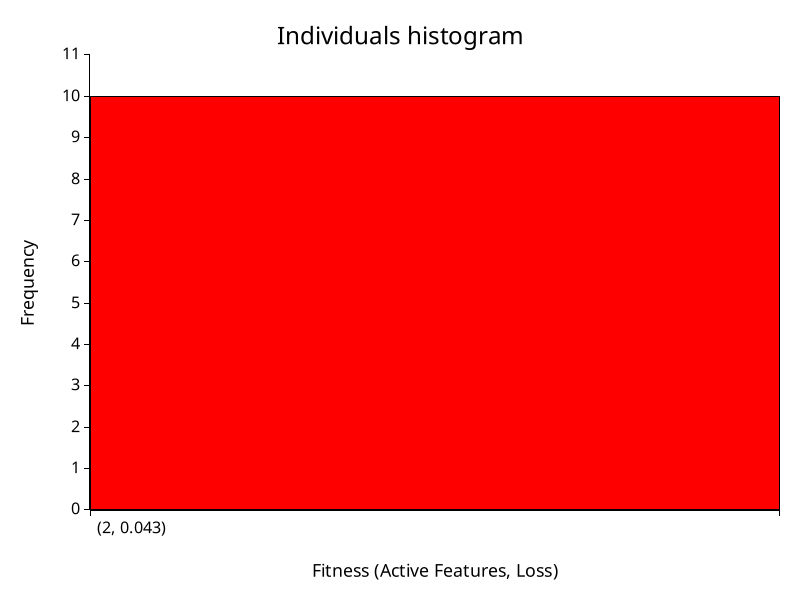
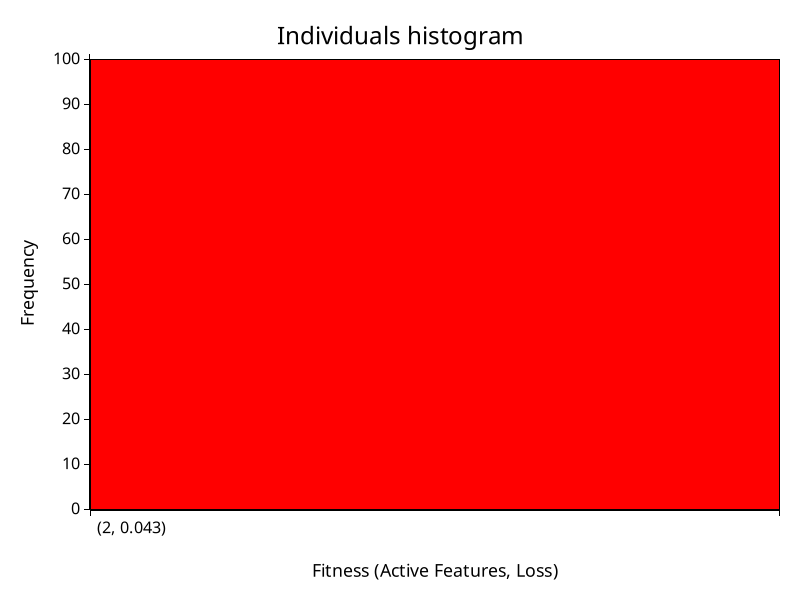
Refactor multi-run validation and enhance output data; update feature selection logic and visualization

diff --git a/src/algorithms/soo/soo.rs b/src/algorithms/soo/soo.rs
@@ -8,7 +8,7 @@ const POPULATION_SIZE: usize = 100;
 const MAX_GENERATIONS: usize = 1000;
 const TOURNAMENT_SIZE: usize = 3;
 const W : f64 = 0.5;
-const MAX_TIME : f64 = 5.0;
+const MAX_TIME : f64 = 1.0;
 
 pub fn generate_population(n: usize) -> Vec<Vec<bool>>{
 
@@ -247,16 +247,12 @@ pub fn genetic_algorithm_time(
                 best_solution.combination = solution.clone();
                 best_solution.loss = get_loss(&combinations, solution);
                 best_cost = cost;
-                best_generation = generation;
+                best_generation = generation+1;
             }
         }
         costs.push((best_cost, best_solution.loss));
-
-        if generation % 1000 == 0 {
-            println!("Generation: {}, Best Cost: {}", generation, best_cost);
-        }
-        generation += 1;
     }
+    println!("Final Best Cost: {}", best_cost);
 
     // Final push (optional, depending on your logging preference)
     costs.push((best_cost, best_solution.loss));
@@ -459,7 +455,7 @@ pub(crate) fn multi_run_validation(path: &str){
     let mut feauter_counts = Vec::new();
     let mut losses = Vec::new();
     let mut best_generations = Vec::new();
-    for _ in 0..10{
+    for _ in 0..100{
         let (solution, cost, _, best_generation) = genetic_algorithm_time(&combinations, MAX_TIME);
         best_solutions.push(solution.clone());
         costs.push(cost);
@@ -478,6 +474,7 @@ pub(crate) fn multi_run_validation(path: &str){
     let mut mean_feature_count = 0.0;
     let mut mean_loss = 0.0;
     let mut mean_evaluation_number = 0.0;
+    let mut mean_best_solution = best_solutions[0].clone();
 
     for cost in &costs {
         mean_best_cost += *cost;
@@ -495,6 +492,14 @@ pub(crate) fn multi_run_validation(path: &str){
         mean_evaluation_number += *evaluation_number as f64;
     }
     mean_evaluation_number /= best_generations.len() as f64;
+    let mut max_count = 0;
+    for solution in &best_solutions {
+        let count = best_solutions.iter().filter(|&s| s == solution).count();
+        if count > max_count {
+            max_count = count;
+            mean_best_solution = solution.clone();
+        }
+    }
 
     mean_best_cost /= best_solutions.len() as f64;
     println!("Mean Best Cost: {}", mean_best_cost);
@@ -504,15 +509,15 @@ pub(crate) fn multi_run_validation(path: &str){
     let output_path = format!("src/output/soo/{}_histogram.png", path);
     plot_histogram(&best_solutions, &output_path).unwrap();
     let csv_path = format!("src/output/soo/{}.csv", path);
-    save_data_to_csv(&csv_path, costs.len(), mean_feature_count, mean_loss, mean_best_cost, mean_evaluation_number);
+    save_data_to_csv(&csv_path, costs.len(), mean_feature_count, mean_loss, mean_best_cost, mean_evaluation_number,mean_best_solution);
     
 }
 
 
-fn save_data_to_csv(path: &str,run_counts:usize, mean_feature_count: f64, mean_loss: f64, mean_best_cost: f64, mean_evaluation_number: f64){
+fn save_data_to_csv(path: &str,run_counts:usize, mean_feature_count: f64, mean_loss: f64, mean_best_cost: f64, mean_evaluation_number: f64, mean_best_solution: Combination){
     let mut wtr = csv::Writer::from_path(path).unwrap();
-    wtr.write_record(&["Run Counts","Mean Feature Count", "Mean Loss", "Mean Best Cost", "Mean Evaluation Number"]).unwrap();
-    wtr.write_record(&[run_counts.to_string() ,mean_feature_count.to_string(), mean_loss.to_string(), mean_best_cost.to_string(), mean_evaluation_number.to_string()]).unwrap();
+    wtr.write_record(&["Run Counts","Mean Feature Count", "Mean Loss", "Mean Best Cost", "Mean Evaluation Number", "Mean Best Solution"]).unwrap();
+    wtr.write_record(&[run_counts.to_string() ,mean_feature_count.to_string(), mean_loss.to_string(), mean_best_cost.to_string(), mean_evaluation_number.to_string(), mean_best_solution.to_string()]).unwrap();
     wtr.flush().unwrap();
 
 

diff --git a/XGB-Feature-Selection/visualization.py b/XGB-Feature-Selection/visualization.py
@@ -91,30 +91,62 @@ def is_pareto_efficient(costs):
 def plot_feature_count_loss(df, title):
     """
     Plots number of selected features vs loss and highlights Pareto front.
+    Additionally, plots a bar chart showing the number of elements with exactly one
+    used feature and the total number of elements, with counts annotated above each bar.
 
     Parameters:
     - df: DataFrame with only binary feature selection columns + 'Loss' column.
-    - title: String for saving and titling the plot.
+    - title: String for saving and titling the plots.
     """
     if 'Loss' not in df.columns:
         raise ValueError("DataFrame must contain a 'Loss' column.")
 
+    # Create a working copy and compute the number of selected features per row.
     df = df.copy()
     df['selected_features'] = df.drop(columns=['Loss']).sum(axis=1)
 
+    # Compute Pareto front (assuming is_pareto_efficient is defined elsewhere)
     costs = df[['selected_features', 'Loss']].values
     pareto_mask = is_pareto_efficient(costs)
     df['pareto'] = pareto_mask
 
+    # Plot the scatter plot: Number of Selected Features vs Loss
     plt.figure(figsize=(12, 8))
     sns.scatterplot(data=df, x='selected_features', y='Loss', hue='pareto', palette={True: 'red', False: 'blue'})
     plt.title('Number of Selected Features vs Loss')
     plt.xlabel('Number of Selected Features')
     plt.ylabel('Loss')
 
+    # Save the scatter plot
     os.makedirs("visualizations/scatter", exist_ok=True)
     plt.savefig(f"visualizations/scatter/{title}_scatter_plot.png")
     plt.close()
+
+    # Calculate the counts
+    count_single_feature = (df['selected_features'] == 1).sum()
+    total_elements = len(df)
+
+    # Plot the bar chart with the two counts
+    plt.figure(figsize=(8, 6))
+    bars = plt.bar(['Only one used feature', 'Total elements'], [count_single_feature, total_elements], color=['green', 'gray'])
+    plt.ylabel('Count')
+    plt.title('Count of Elements: Only one used feature vs Total')
+
+    # Annotate the bars with their count values
+    for bar in bars:
+        height = bar.get_height()
+        plt.annotate(f'{height}', 
+                     xy=(bar.get_x() + bar.get_width() / 2, height),
+                     xytext=(0, 3),  # 3 points vertical offset
+                     textcoords="offset points",
+                     ha='center', va='bottom')
+
+    # Save the bar chart
+    os.makedirs("visualizations/bar", exist_ok=True)
+    plt.savefig(f"visualizations/bar/{title}_bar_plot.png")
+    plt.close()
+
+
 
 def plot_feature_count_loss_combined(df, title):
     """

diff --git a/src/structs/combination.rs b/src/structs/combination.rs
@@ -1,8 +1,29 @@
 
 
-#[derive(Debug, Clone)]
+#[derive(Debug, Clone, PartialEq)]
 pub struct Combination {
     pub combination: Vec<bool>,
     pub loss: f64,
 }
 
+
+impl Combination {
+    pub fn new(combination: Vec<bool>, loss: f64) -> Self {
+        Combination {
+            combination,
+            loss,
+        }
+    }
+
+    pub fn to_string(&self) -> String {
+        let mut result = String::new();
+        for i in 0..self.combination.len() {
+            if self.combination[i] {
+                result.push_str("1");
+            } else {
+                result.push_str("0");
+            }
+        }
+        result
+    }
+}

diff --git a/src/main.rs b/src/main.rs
@@ -9,5 +9,5 @@ fn main() {
     //init();
     // Call the hello function from pso.rs
     //soo::single_output_optimization(["breast_cancer_wisconsin_original", "titanic", "wine_quality_combined"]);
-    soo::multi_run_validation("breast_cancer_wisconsin_original");
+    soo::multi_run_validation("titanic");
 }
